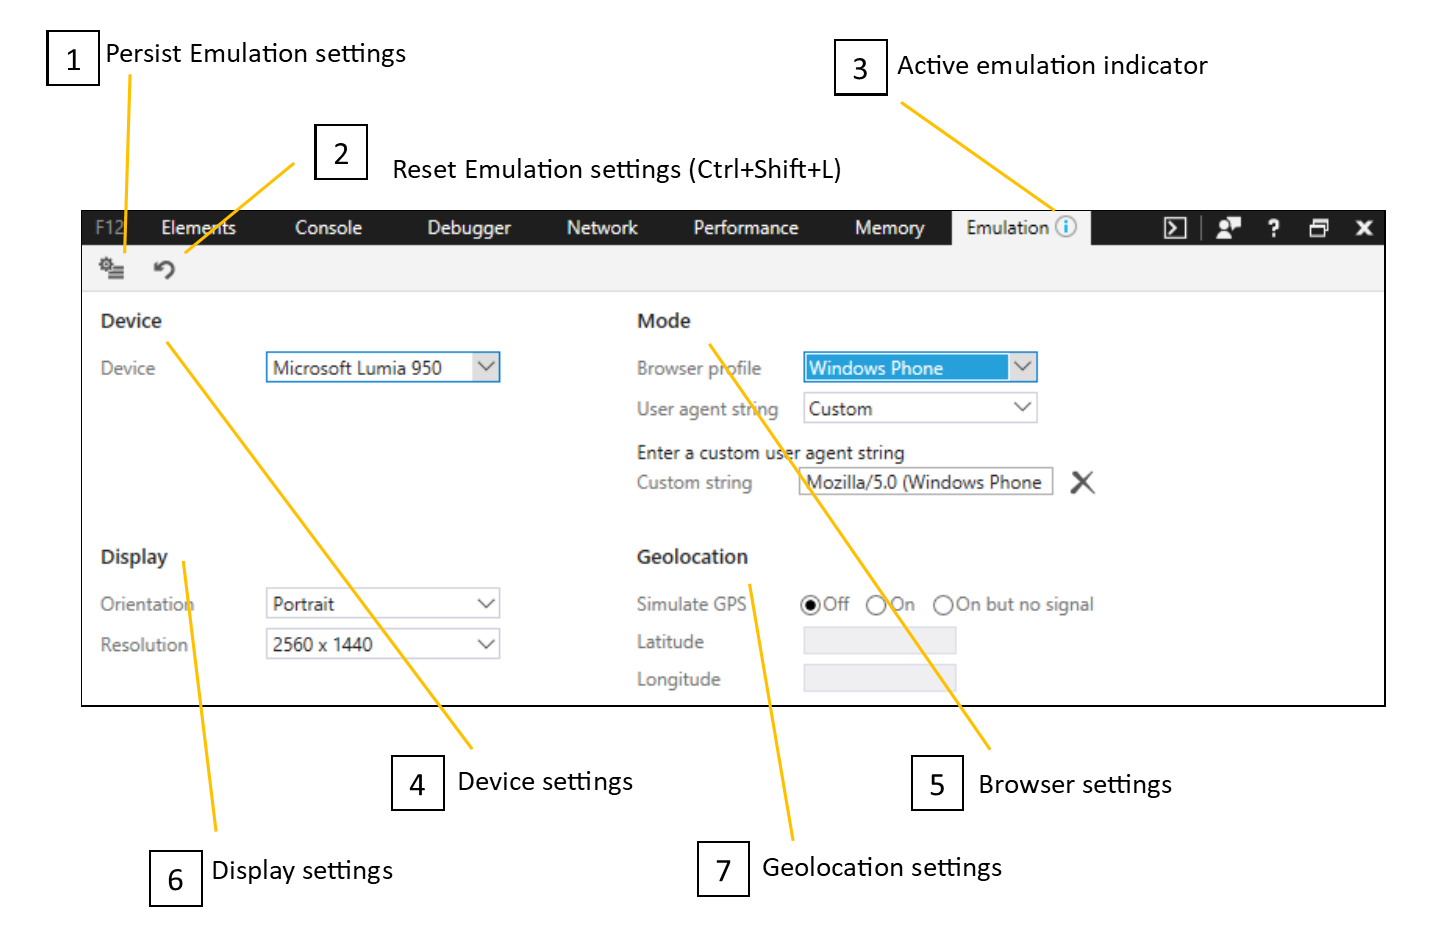
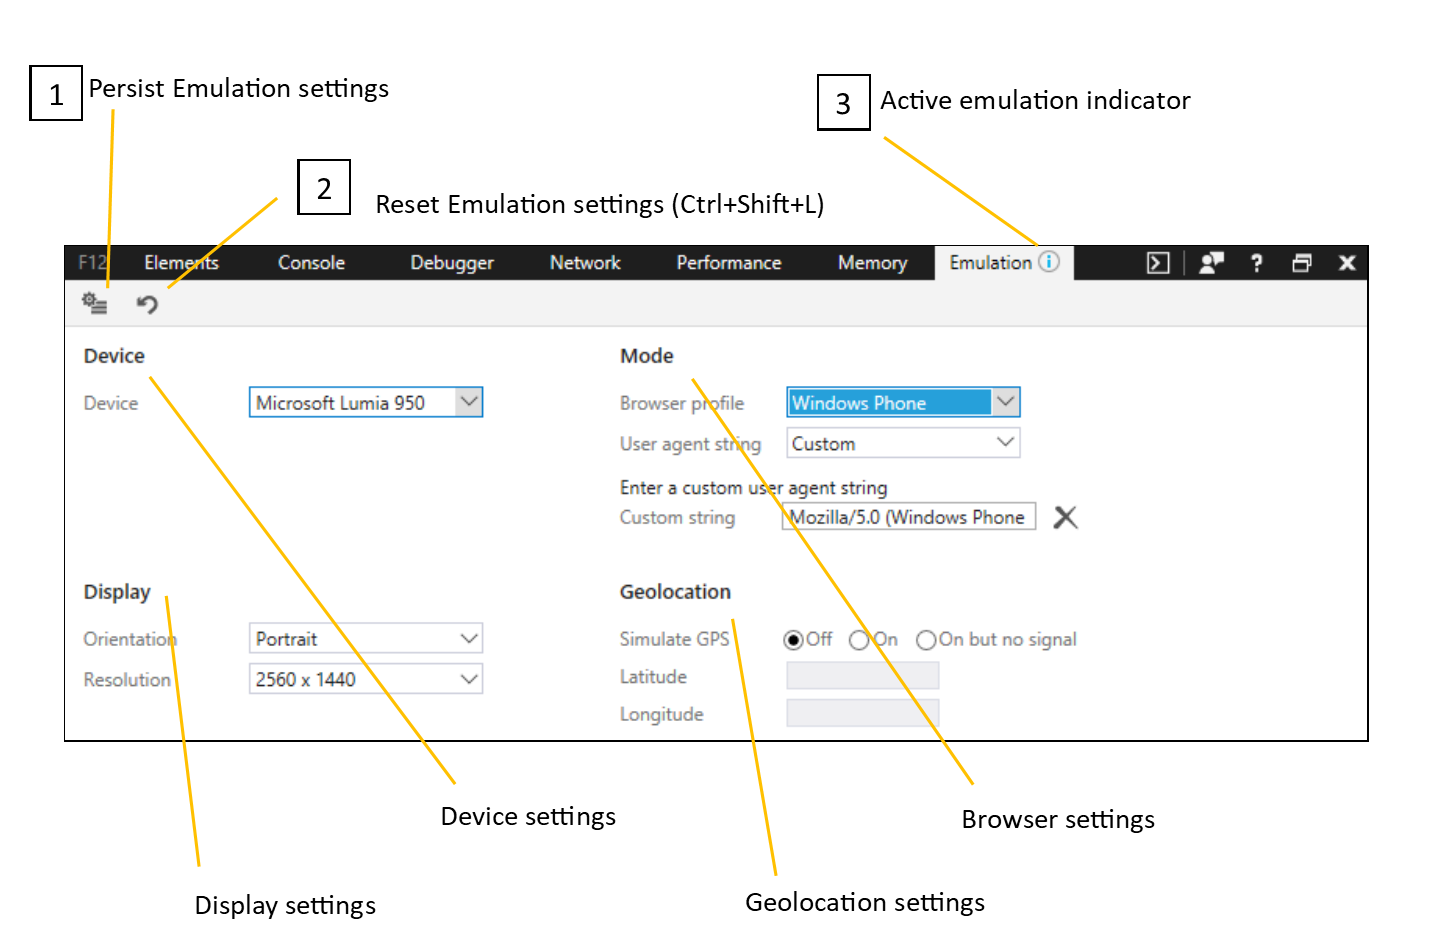
Adjust numbering

diff --git a/microsoft-edge/f12-devtools-guide/emulation.md b/microsoft-edge/f12-devtools-guide/emulation.md
@@ -23,11 +23,11 @@ The *Emulation* panel helps you to:
 
 3. When any of these options are changed from the default, the **Emulation** tab will show an informational alert to indicate that some aspect of your browser's behavior is being emulated.
 
-## 4. Device
+## Device
 
 Pick from a preset list of Windows device profiles which  automatically configure the other emulation options or specify your own *Custom* configuation. Switch back to *Default* to reset all the emulation tools.
 
-## 5. Mode
+## Mode
 
 ### Browser profile
 A quick way to simulate your page running on a Windows Phone device is to change the **Browser profile** setting to *Windows Phone*.
@@ -42,7 +42,7 @@ The problem with browser detection is that it's often used to scale back or chan
 
 If changing your user agent string clears up the problem, browser detection is likely culprit.
 
-## 6. Display
+## Display
 
 Display emulation lets you preview your site on different screen sizes and resolutions: from conventional desktop monitors to smaller mobile screens or newer high-resolution displays.
 
@@ -56,7 +56,7 @@ Choose from *Landscape* or *Portrait* mode.
 
 Choose from a preset list of popular device resolutions, or specify your own *Custom* config. Resolutions of up to 80 inches and 3820 x 2160 are supported.
 
-## 7. Geolocation
+## Geolocation
 
 If your site uses the [Geolocation API](https://developer.mozilla.org/en-US/docs/Web/API/Geolocation/Using_geolocation) to provide location-based services, you can easily test different GPS coordinates and sensor states from the convenience of your desktop. These settings will override any actual GPS coordinates and the sensor state on machines that support geolocation. 
 
